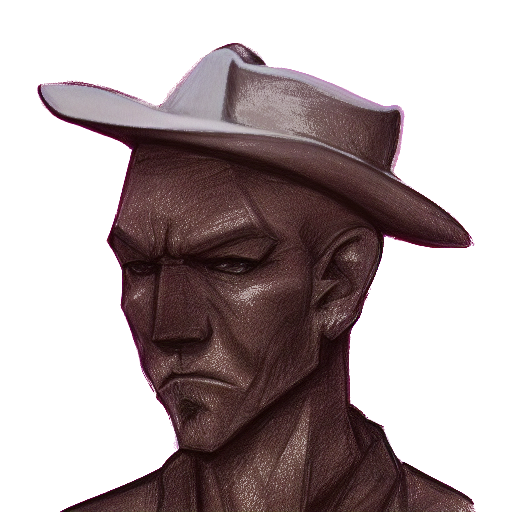
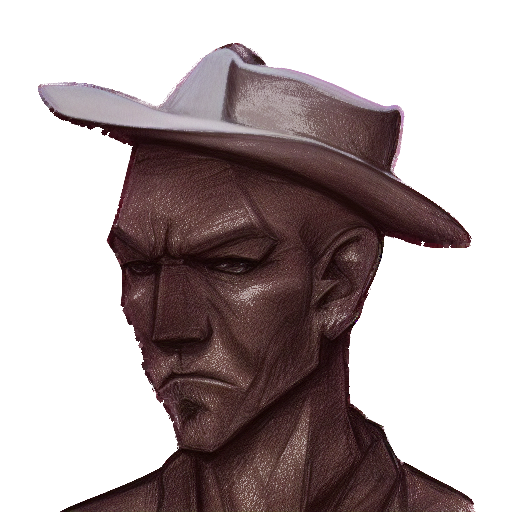
Remove the magenta chroma-key halo from the sprites
Every cut-out sprite kept a magenta rim or glow along its silhouette.
despill.py marks a pixel as halo when its hue is magenta and it
connects to the transparent outside through magenta or near-transparent
pixels. Magenta the art encloses (Clipi's screen band, the glitch grid)
does not connect, so it stays.

Halo within 3 px of clean art takes the nearest clean colour; halo
farther out becomes transparent. 25 sprites fixed; --scan now reports 0.

Claude-Session: https://claude.ai/code/session_015fCi4iE5Euj7jwaLaDTxwg

diff --git a/tools/assets/despill.py b/tools/assets/despill.py
@@ -1,0 +1,150 @@
+#!/usr/bin/env python3
+"""Find and remove the magenta chroma-key halo around sprite cut-outs.
+
+The problem: the sprites were cut out of a magenta background. Every
+cut-out kept a magenta rim or glow along its silhouette. On a dark
+background the rim shows as a pink halo.
+
+The rule: a pixel is halo if it is magenta and it connects to the
+transparent outside of the sprite through other magenta or near-
+transparent pixels. Magenta that the art encloses (Clipi's screen
+band, the grid on the glitched screen) does not connect to the
+outside, so the rule does not touch it.
+
+The fix, for each halo pixel:
+  - Within EDGE_PX of clean (non-magenta, visible) art: take the colour
+    of the nearest clean pixel. Keep the alpha, so the anti-aliased
+    edge stays smooth. Fade alpha below 128, so the soft glow goes.
+  - Farther out: make it fully transparent. This removes the wide glow
+    and stray magenta lines on the canvas.
+
+Modes:
+  --scan DIR               Report halo pixel counts for every PNG in DIR.
+                           Exit 1 if any file has halo pixels.
+  --fix FILE... [--out DIR]
+                           Remove the halo. In place, or into DIR.
+
+Requires Pillow, NumPy and SciPy.
+"""
+import argparse
+import glob
+import os
+import sys
+
+import numpy as np
+from PIL import Image
+from scipy import ndimage
+
+HUE_MIN, HUE_MAX = 285, 345  # the magenta band, in degrees
+MIN_SAT = 0.3        # greyer than this is not a hue
+MIN_VALUE = 8        # darker than this is not a hue
+SOLID_ALPHA = 16     # alpha below this counts as see-through
+EDGE_PX = 3          # halo within this distance of clean art is recoloured
+
+EIGHT = np.ones((3, 3), dtype=bool)
+
+
+def _channels(im):
+    a = np.asarray(im.convert("RGBA")).astype(np.int32)
+    return a, a[..., 0], a[..., 1], a[..., 2], a[..., 3]
+
+
+def is_magenta(r, g, b):
+    """Elementwise: True where the colour's hue is magenta.
+
+    Hue, not a channel margin: the halo runs from dark (13, 0, 7) through
+    pale (194, 80, 150), and all of it sits near hue 325. Skin (about
+    20) and the shaded face (about 353) fall outside the band.
+    """
+    hi = np.maximum(np.maximum(r, g), b)
+    lo = np.minimum(np.minimum(r, g), b)
+    span = np.maximum(hi - lo, 1)
+    hue = np.where(
+        hi == r, (60 * (g - b) / span) % 360,
+        np.where(hi == g, 60 * (b - r) / span + 120, 60 * (r - g) / span + 240),
+    )
+    sat = (hi - lo) / np.maximum(hi, 1)
+    return (hue >= HUE_MIN) & (hue <= HUE_MAX) & (sat >= MIN_SAT) & (hi >= MIN_VALUE)
+
+
+def halo_mask(im):
+    """Return a boolean array: True for halo pixels."""
+    _, r, g, b, alpha = _channels(im)
+    mag = is_magenta(r, g, b) & (alpha > 0)
+    passable = mag | (alpha < SOLID_ALPHA)
+    labels, _ = ndimage.label(passable, structure=EIGHT)
+    outside = np.unique(labels[alpha == 0])
+    outside = outside[outside != 0]
+    reached = np.isin(labels, outside)
+    return mag & reached
+
+
+def scan_image(im):
+    """Return (halo_pixels, enclosed_magenta_pixels) for im."""
+    _, r, g, b, alpha = _channels(im)
+    halo = halo_mask(im)
+    enclosed = is_magenta(r, g, b) & (alpha > 0) & ~halo
+    return int(halo.sum()), int(enclosed.sum())
+
+
+def despill_image(im):
+    """Return a copy of im with the magenta halo removed."""
+    a, r, g, b, alpha = _channels(im)
+    halo = halo_mask(im)
+    if not halo.any():
+        return im.convert("RGBA").copy()
+    clean = (alpha >= SOLID_ALPHA) & ~is_magenta(r, g, b)
+    if not clean.any():
+        out = a.copy()
+        out[..., 3] = np.where(halo, 0, alpha)
+        return Image.fromarray(out.astype(np.uint8), "RGBA")
+    dist, (iy, ix) = ndimage.distance_transform_edt(~clean, return_indices=True)
+    near = halo & (dist <= EDGE_PX)
+    far = halo & (dist > EDGE_PX)
+    out = a.copy()
+    for c in range(3):
+        out[..., c] = np.where(near, a[..., c][iy, ix], a[..., c])
+    faded = np.where(alpha < 128, alpha * alpha // 128, alpha)
+    out[..., 3] = np.where(near, faded, alpha)
+    out[..., 3] = np.where(far, 0, out[..., 3])
+    return Image.fromarray(out.astype(np.uint8), "RGBA")
+
+
+def cmd_scan(directory):
+    found = False
+    for path in sorted(glob.glob(os.path.join(directory, "*.png"))):
+        halo, enclosed = scan_image(Image.open(path))
+        flag = "HALO" if halo else "ok"
+        print(f"{flag:4}  halo={halo:6}  enclosed_magenta={enclosed:6}  {os.path.basename(path)}")
+        found = found or halo > 0
+    return 1 if found else 0
+
+
+def cmd_fix(files, out_dir):
+    for path in files:
+        if scan_image(Image.open(path))[0] == 0:
+            print(f"clean {path}")
+            continue
+        fixed = despill_image(Image.open(path))
+        target = os.path.join(out_dir, os.path.basename(path)) if out_dir else path
+        if out_dir:
+            os.makedirs(out_dir, exist_ok=True)
+        fixed.save(target)
+        print(f"fixed {target}")
+    return 0
+
+
+def main(argv=None):
+    parser = argparse.ArgumentParser(description=__doc__, formatter_class=argparse.RawDescriptionHelpFormatter)
+    group = parser.add_mutually_exclusive_group(required=True)
+    group.add_argument("--scan", metavar="DIR", help="scan all PNGs in DIR for magenta halo")
+    group.add_argument("--fix", metavar="FILE", nargs="+", help="remove the halo from one or more PNG files")
+    parser.add_argument("--out", metavar="DIR", help="write fixed files to DIR instead of in place (--fix only)")
+    args = parser.parse_args(argv)
+    if args.scan:
+        return cmd_scan(args.scan)
+    return cmd_fix(args.fix, args.out)
+
+
+if __name__ == "__main__":
+    sys.exit(main())

diff --git a/tests/test_despill.py b/tests/test_despill.py
@@ -1,0 +1,92 @@
+"""Tests for tools/assets/despill.py, using synthetic images.
+
+Each test builds a small image in memory. No project art is touched.
+"""
+import os
+import sys
+
+from PIL import Image
+
+sys.path.insert(0, os.path.join(os.path.dirname(__file__), "..", "tools", "assets"))
+
+import despill  # noqa: E402
+
+MAGENTA = (255, 0, 255, 255)
+BROWN = (120, 80, 60, 255)
+BLACK = (10, 10, 10, 255)
+CLEAR = (0, 0, 0, 0)
+
+
+def sprite_with_rim(rim_alpha=255, glow_width=0):
+    """A 20x20 image: brown square in the middle, magenta rim, then an
+    optional magenta glow, then transparency."""
+    im = Image.new("RGBA", (20, 20), CLEAR)
+    for y in range(20):
+        for x in range(20):
+            edge = min(x, y, 19 - x, 19 - y)
+            if edge >= 6:
+                im.putpixel((x, y), BROWN)
+            elif edge == 5:
+                im.putpixel((x, y), (255, 0, 255, rim_alpha))
+            elif glow_width and edge >= 5 - glow_width:
+                im.putpixel((x, y), (255, 0, 255, 60))
+    return im
+
+
+def test_rim_touching_outside_is_halo():
+    halo, enclosed = despill.scan_image(sprite_with_rim())
+    assert halo > 0
+    assert enclosed == 0
+
+
+def test_rim_is_recoloured_from_clean_art():
+    fixed = despill.despill_image(sprite_with_rim())
+    r, g, b, a = fixed.getpixel((5, 10))
+    assert (r, g, b) == BROWN[:3]
+    assert a == 255
+    assert despill.scan_image(fixed)[0] == 0
+
+
+def test_wide_glow_far_from_art_becomes_transparent():
+    fixed = despill.despill_image(sprite_with_rim(glow_width=4))
+    assert fixed.getpixel((1, 10))[3] == 0
+    assert despill.scan_image(fixed)[0] == 0
+
+
+def test_enclosed_magenta_is_untouched():
+    im = Image.new("RGBA", (20, 20), CLEAR)
+    for y in range(2, 18):
+        for x in range(2, 18):
+            inside = 5 <= x <= 14 and 5 <= y <= 14
+            im.putpixel((x, y), MAGENTA if inside else BLACK)
+    halo, enclosed = despill.scan_image(im)
+    assert halo == 0
+    assert enclosed == 100
+    assert despill.despill_image(im).tobytes() == im.tobytes()
+
+
+def test_transparent_and_neutral_pixels_are_untouched():
+    im = Image.new("RGBA", (10, 10), CLEAR)
+    im.putpixel((5, 5), (128, 128, 128, 90))
+    assert despill.despill_image(im).tobytes() == im.tobytes()
+
+
+def test_scan_exit_status(tmp_path):
+    sprite_with_rim().save(tmp_path / "bad.png")
+    assert despill.main(["--scan", str(tmp_path)]) == 1
+    despill.main(["--fix", str(tmp_path / "bad.png")])
+    assert despill.main(["--scan", str(tmp_path)]) == 0
+
+
+def test_dark_and_pale_glow_colours_count_as_magenta():
+    import numpy as np
+    for rgb in [(13, 0, 7), (194, 80, 150), (172, 90, 136), (255, 0, 255)]:
+        r, g, b = (np.array([v]) for v in rgb)
+        assert despill.is_magenta(r, g, b)[0], rgb
+
+
+def test_skin_hat_and_shadow_do_not_count_as_magenta():
+    import numpy as np
+    for rgb in [(120, 80, 60), (150, 60, 70), (230, 200, 210), (4, 2, 3), (128, 128, 128)]:
+        r, g, b = (np.array([v]) for v in rgb)
+        assert not despill.is_magenta(r, g, b)[0], rgb
